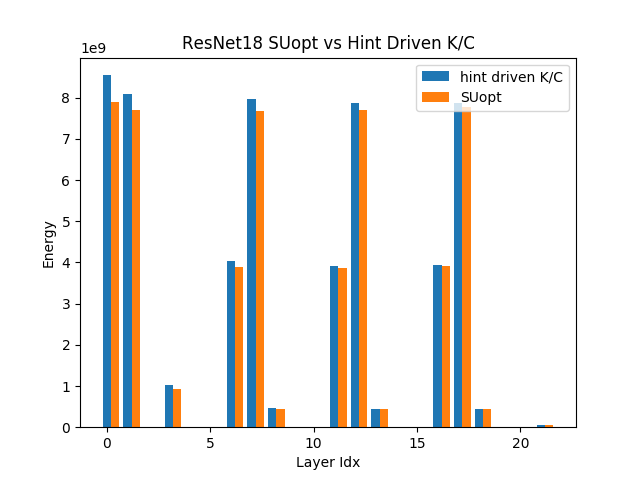
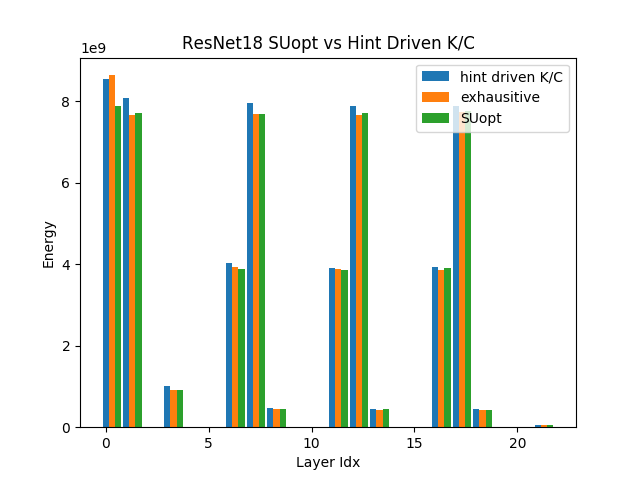
added tools for plotting

diff --git a/temporal_mapping_optimizer/perf_visualisation_suopt.py b/temporal_mapping_optimizer/perf_visualisation_suopt.py
@@ -1,6 +1,7 @@
 import os
 import sys
 import yaml
+import json
 import shlex
 import subprocess
 import statistics
@@ -52,14 +53,15 @@ def merge_su_loop(su):
 
     for su_idx, loop_list in enumerate(su):
         merged_loop_list = []
-        for loop_idx, loop in enumerate(loop_list):
-            if any([loop[0] == merged_loop[0] for merged_loop in merged_loop_list]):
-                for merged_idx, merged_loop in enumerate(merged_loop_list):
-                    if loop[0] == merged_loop[0]:
-                        merged_loop_list[merged_idx] = [merged_loop[0], merged_loop[1]*loop[1]]
-            else:
-                merged_loop_list.append(list(loop))
-        su[su_idx] = merged_loop_list
+        if loop_list != 0:
+            for loop_idx, loop in enumerate(loop_list):
+                if any([loop[0] == merged_loop[0] for merged_loop in merged_loop_list]):
+                    for merged_idx, merged_loop in enumerate(merged_loop_list):
+                        if loop[0] == merged_loop[0]:
+                            merged_loop_list[merged_idx] = [merged_loop[0], merged_loop[1]*loop[1]]
+                else:
+                    merged_loop_list.append(list(loop))
+            su[su_idx] = merged_loop_list
 
     return su
 
@@ -67,33 +69,36 @@ def merge_su_loop(su):
 nn_name = sys.argv[1] #"NASNet_small" "ResNet18" MobileNet_v3_small" "Inception_v3" 
 plot_path = "temporal_mapping_optimizer/"
 
-result_suopt_path = "results_suopt/" + nn_name + "_3000/"
-#result_suopt2_path = "results_suopt/" + nn_name + "_test5_3000/"
-#result_exh_path = "results_exh/" + nn_name + "/"
+result_suopt_path = "results_suopt/" + nn_name + "_test5_3000/"
+result_exh_path = "results_exh/" + nn_name + "_exh/"
 result_hint_path = "results_hint_driven/" + nn_name + "_KC/"
 
 # List all energy per layer for all SU
-#exh_energy = get_perf_dict_list(result_exh_path)
+exh_energy = get_perf_dict_list(result_exh_path)
 hint_energy = get_perf_dict_list(result_hint_path)
 suopt_energy = get_perf_dict_list(result_suopt_path)
-#suopt2_energy = get_perf_dict_list(result_suopt2_path)
 
 # Then extract the best energy found by suopt and exh
-nn_depth = 22
-#best_energy_exh, best_su_exh = extract_data(exh_energy, nn_depth)
+nn_depth = 8
+best_energy_exh, best_su_exh = extract_data(exh_energy, nn_depth)
 best_energy_hint, best_su_hint = extract_data(hint_energy, nn_depth)
 best_energy_suopt, best_su_suopt = extract_data(suopt_energy, nn_depth)
-#best_energy_suopt2, best_su_suopt2 = extract_data(suopt2_energy, nn_depth)
 
 #best_su_exh = merge_su_loop(best_su_exh)
 #best_su_hint = merge_su_loop(best_su_hint)
 #best_su_suopt = merge_su_loop(best_su_suopt)
-#best_su_suopt2 = merge_su_loop(best_su_suopt2)
 
 # print("Best Energy per Layer Exhaustive :", best_energy_exh)
 # print("Best Energy per Layer SUopt :", best_energy_suopt)
-# print("Total Best Energy Exhaustive :", np.sum(best_energy_exh))
-# print("Total Best Energy SUopt :", np.sum(best_energy_suopt))
+for i in range(len(best_energy_exh)):
+    if best_energy_exh[i] == float('inf'):
+        best_energy_exh[i] = 0
+        best_energy_suopt[i] = 0
+        best_energy_hint[i] = 0
+
+print("Total Best Energy Exhaustive :", np.sum(best_energy_exh))
+print("Total Best Energy SUopt :", np.sum(best_energy_suopt))
+print("Total Best Energy Hint :", np.sum(best_energy_hint))
 
 # print("Best SU per Layer Exhaustive :")
 # for idx, su in enumerate(best_su_exh):
@@ -104,16 +109,67 @@ best_energy_suopt, best_su_suopt = extract_data(suopt_energy, nn_depth)
 
 plt.title(nn_name + " SUopt vs Hint Driven K/C")
 
-w = 0.4
+w = 0.3
 
 plt.bar([*np.arange(0, nn_depth, 1)], best_energy_hint, label="hint driven K/C", width=w)
-#plt.bar([*np.arange(w, nn_depth, 1)], best_energy_exh, label="exhausitive", width=w)
-plt.bar([*np.arange(w, nn_depth, 1)], best_energy_suopt, label="SUopt", width=w)
-#plt.bar([*np.arange(w*3, nn_depth, 1)], best_energy_suopt2, label="SUopt 3000", width=w)
+plt.bar([*np.arange(w, nn_depth, 1)], best_energy_exh, label="exhausitive", width=w)
+plt.bar([*np.arange(w*2, nn_depth, 1)], best_energy_suopt, label="SUopt", width=w)
 
 plt.legend(loc="upper right")
 plt.xlabel("Layer Idx")
 plt.ylabel("Energy")
 
 #plt.show()
-plt.savefig("./su_plot_" + nn_name + ".png")
+#plt.savefig("./su_plot_" + nn_name + ".png")
+
+su_counter = 0
+suopt_energy_list = np.zeros((5,nn_depth))
+suopt_su_list = []
+for i in range(5):
+    new = []
+    for j in range(nn_depth):
+        new.append(0)
+    suopt_su_list.append(new)
+
+for su_dict in suopt_energy:
+    for layer_idx in su_dict.keys():
+        suopt_energy_list[su_counter][layer_idx - 1] = su_dict[layer_idx]["en"]
+        suopt_su_list[su_counter][layer_idx - 1] = su_dict[layer_idx]["su"]
+    su_counter += 1
+
+print("SU per Layer :")
+for su_idx, layer_list in enumerate(suopt_su_list):
+    print(merge_su_loop([suopt_su_list[su_idx][0]]))
+print("")
+for su_idx, layer_list in enumerate(suopt_su_list):
+    print(merge_su_loop([suopt_su_list[su_idx][1]]))
+print("")
+for su_idx, layer_list in enumerate(suopt_su_list):
+    print(merge_su_loop([suopt_su_list[su_idx][2]]))
+print("")
+for su_idx, layer_list in enumerate(suopt_su_list):
+    print(merge_su_loop([suopt_su_list[su_idx][3]]))
+print("")
+for su_idx, layer_list in enumerate(suopt_su_list):
+    print(merge_su_loop([suopt_su_list[su_idx][4]]))
+print("")
+
+plt.figure(2)
+plt.title(nn_name + " SUopt perf distrib")
+
+w = 0.12
+
+plt.bar([*np.arange(w*0, nn_depth, 1)], best_energy_hint, label="hint driven K/C", width=w)
+plt.bar([*np.arange(w*1, nn_depth, 1)], best_energy_exh, label="exhausitive", width=w)
+plt.bar([*np.arange(w*2, nn_depth, 1)], suopt_energy_list[0], label="su 1", width=w)
+plt.bar([*np.arange(w*3, nn_depth, 1)], suopt_energy_list[1], label="su 2", width=w)
+plt.bar([*np.arange(w*4, nn_depth, 1)], suopt_energy_list[2], label="su 3", width=w)
+plt.bar([*np.arange(w*5, nn_depth, 1)], suopt_energy_list[3], label="su 4", width=w)
+plt.bar([*np.arange(w*6, nn_depth, 1)], suopt_energy_list[4], label="su 5", width=w)
+
+
+plt.legend(loc="upper right")
+plt.xlabel("Layer Idx")
+plt.ylabel("Energy")
+
+plt.show()
